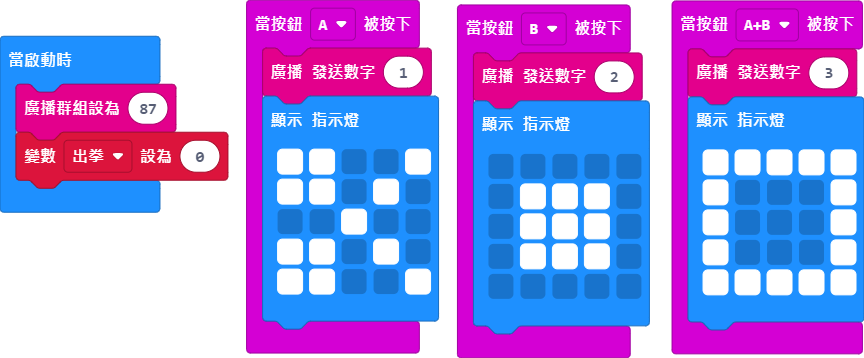
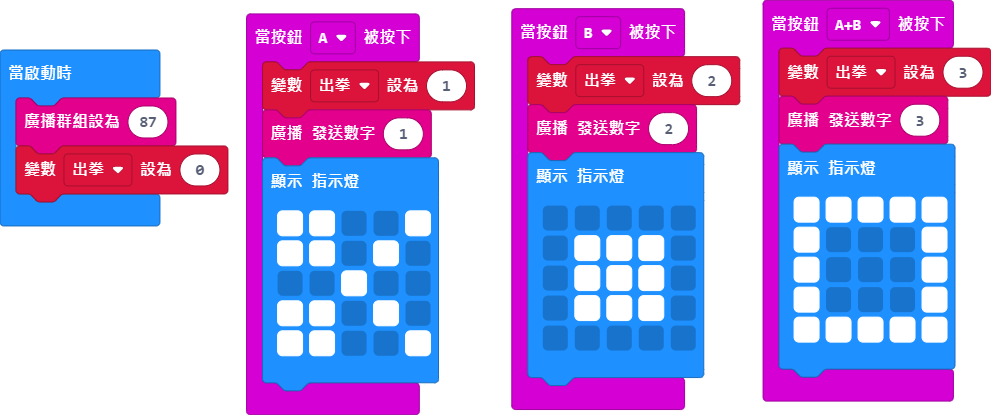
更新 main.blocks, main.ts

diff --git a/main.ts b/main.ts
@@ -1,4 +1,5 @@
 input.onButtonPressed(Button.A, function () {
+    出拳 = 1
     radio.sendNumber(1)
     basic.showLeds(`
         # # . . #
@@ -9,6 +10,7 @@ input.onButtonPressed(Button.A, function () {
         `)
 })
 input.onButtonPressed(Button.AB, function () {
+    出拳 = 3
     radio.sendNumber(3)
     basic.showLeds(`
         # # # # #
@@ -19,6 +21,7 @@ input.onButtonPressed(Button.AB, function () {
         `)
 })
 input.onButtonPressed(Button.B, function () {
+    出拳 = 2
     radio.sendNumber(2)
     basic.showLeds(`
         . . . . .
@@ -28,5 +31,6 @@ input.onButtonPressed(Button.B, function () {
         . . . . .
         `)
 })
-radio.setGroup(87)
 let 出拳 = 0
+radio.setGroup(87)
+出拳 = 0
